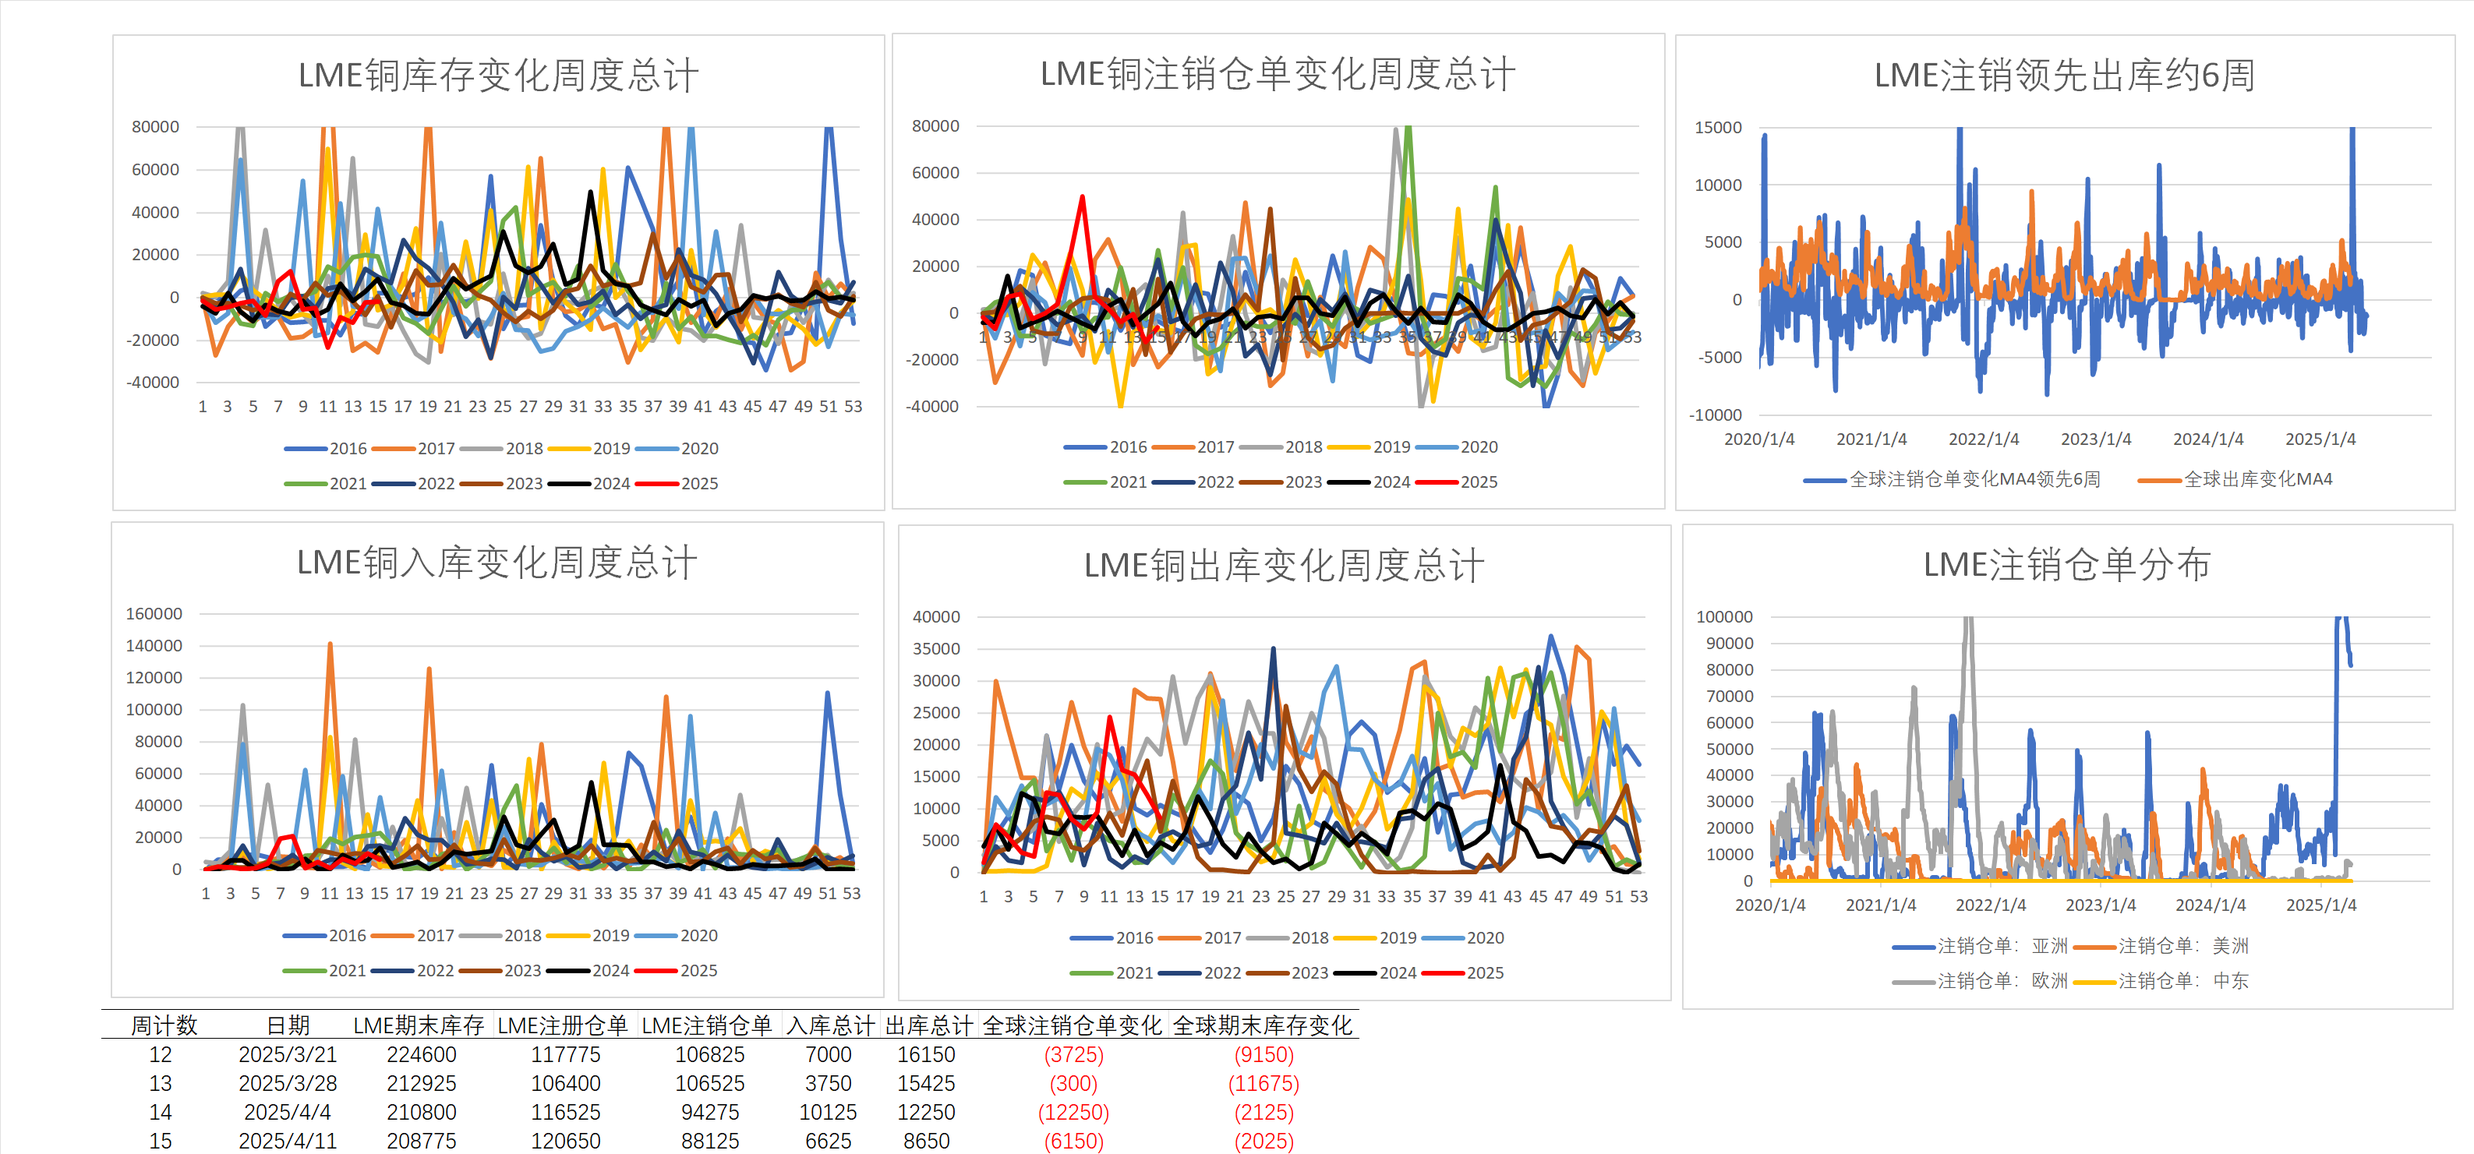
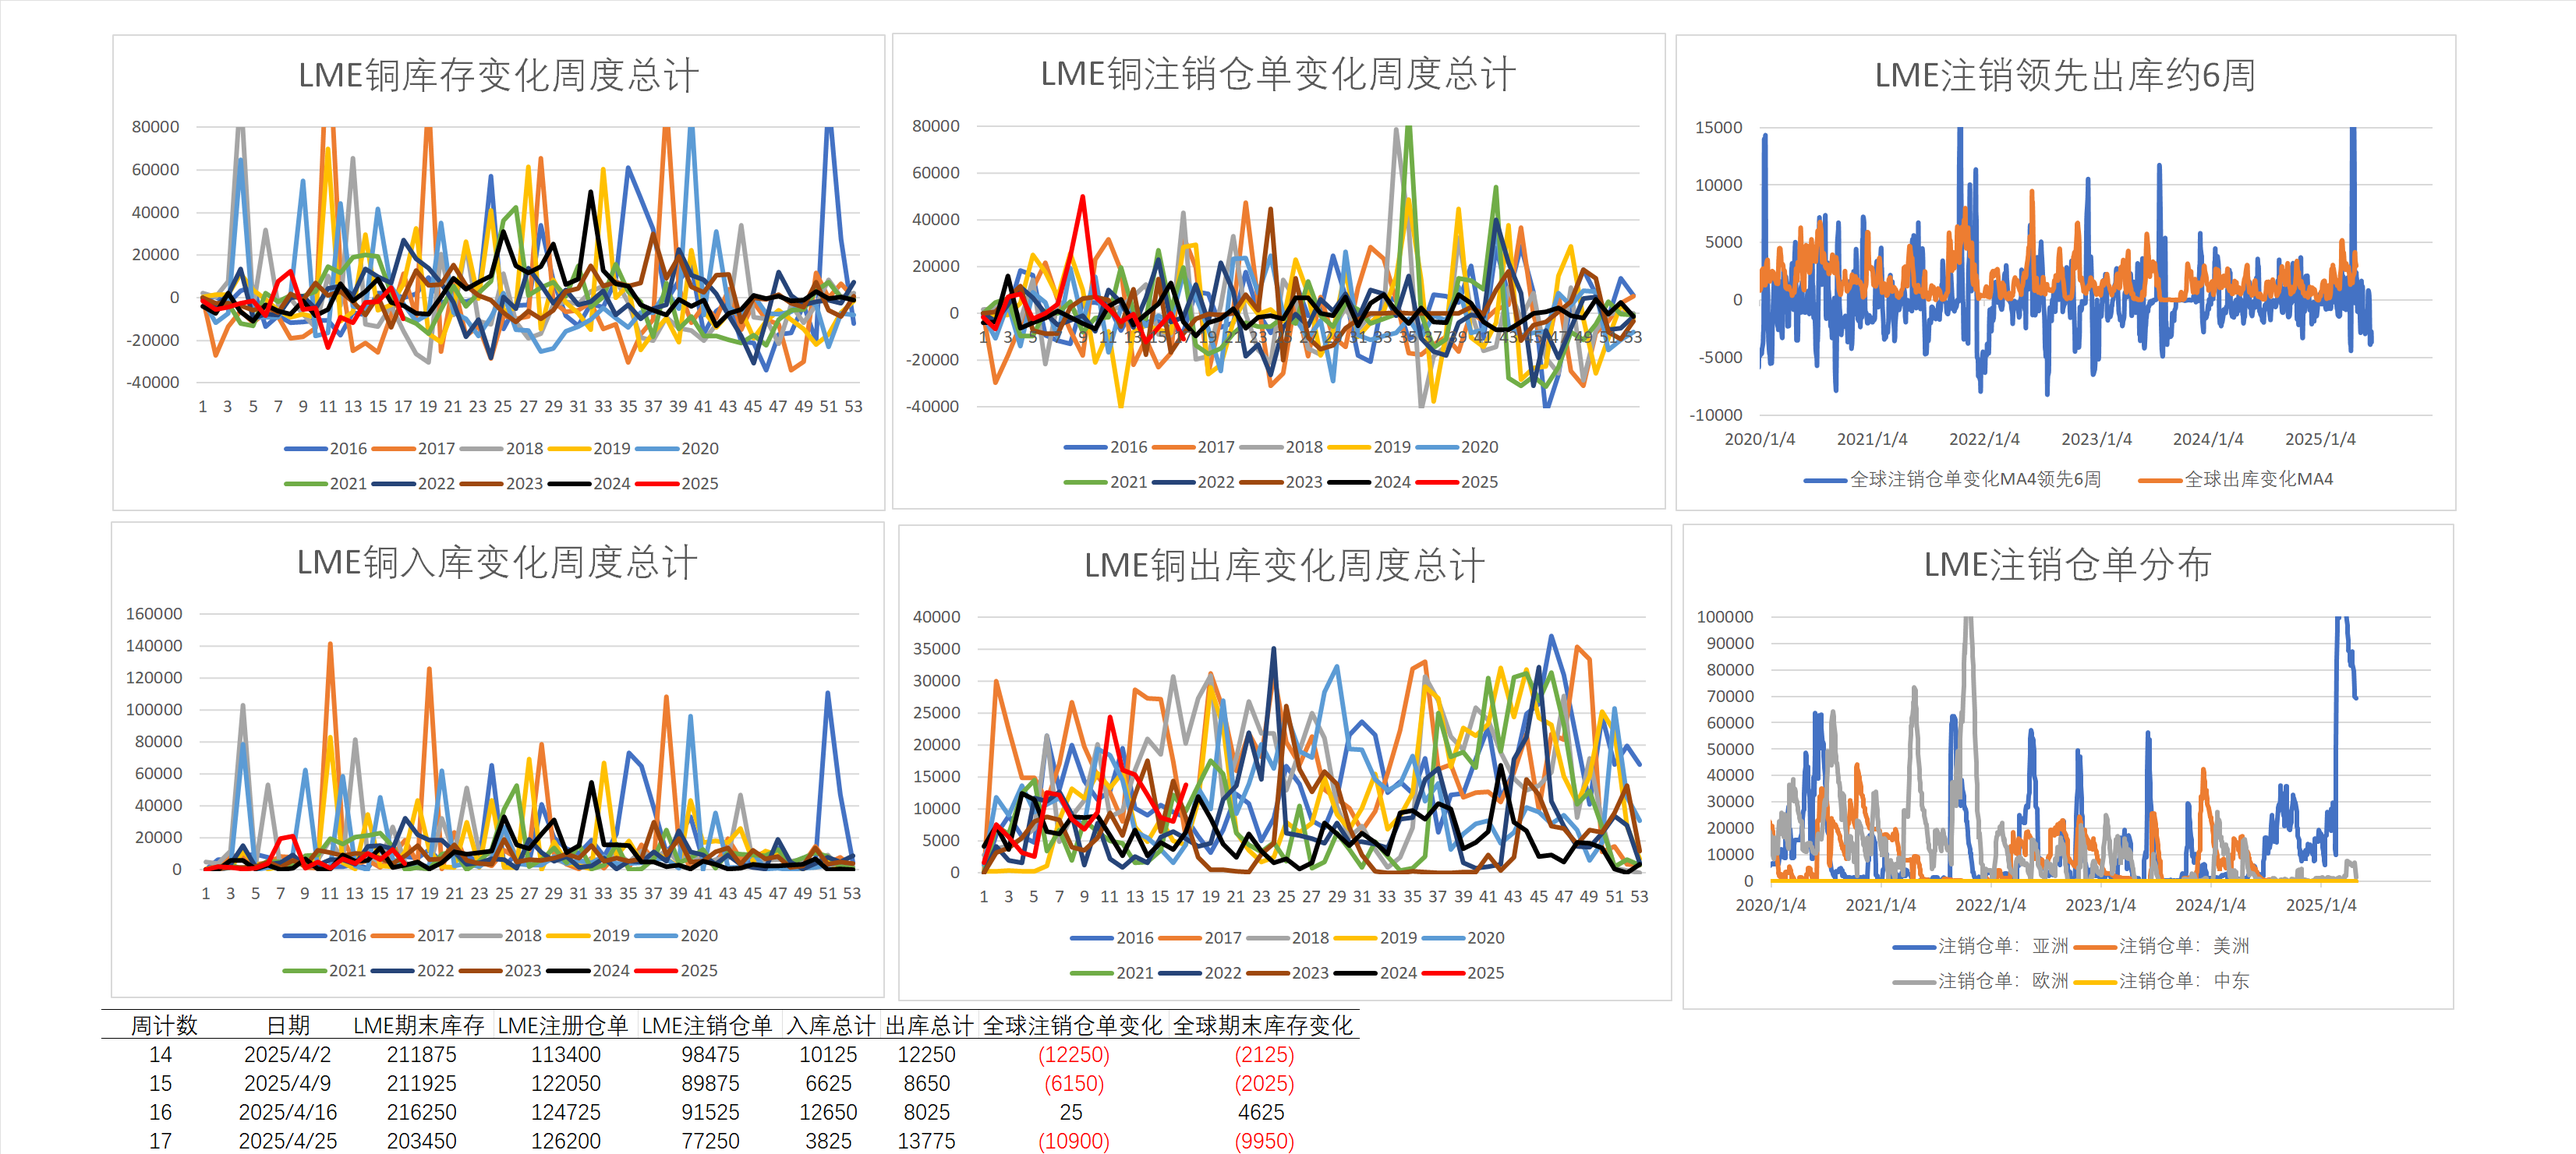
DESKTOP-SUCDRQ5 2025-4-29:15:4:55

diff --git a/铜市场分析20250427.md b/铜市场分析20250427.md
@@ -85,7 +85,6 @@
 ## 中国电铜平衡表
 ![[中国铜平衡表.png|1350]]
 <div STYLE="page-break-after: always;"></div>
-![[铜表消季节性.png|1350]]
 
 
 ### 平衡表关键供需假设
